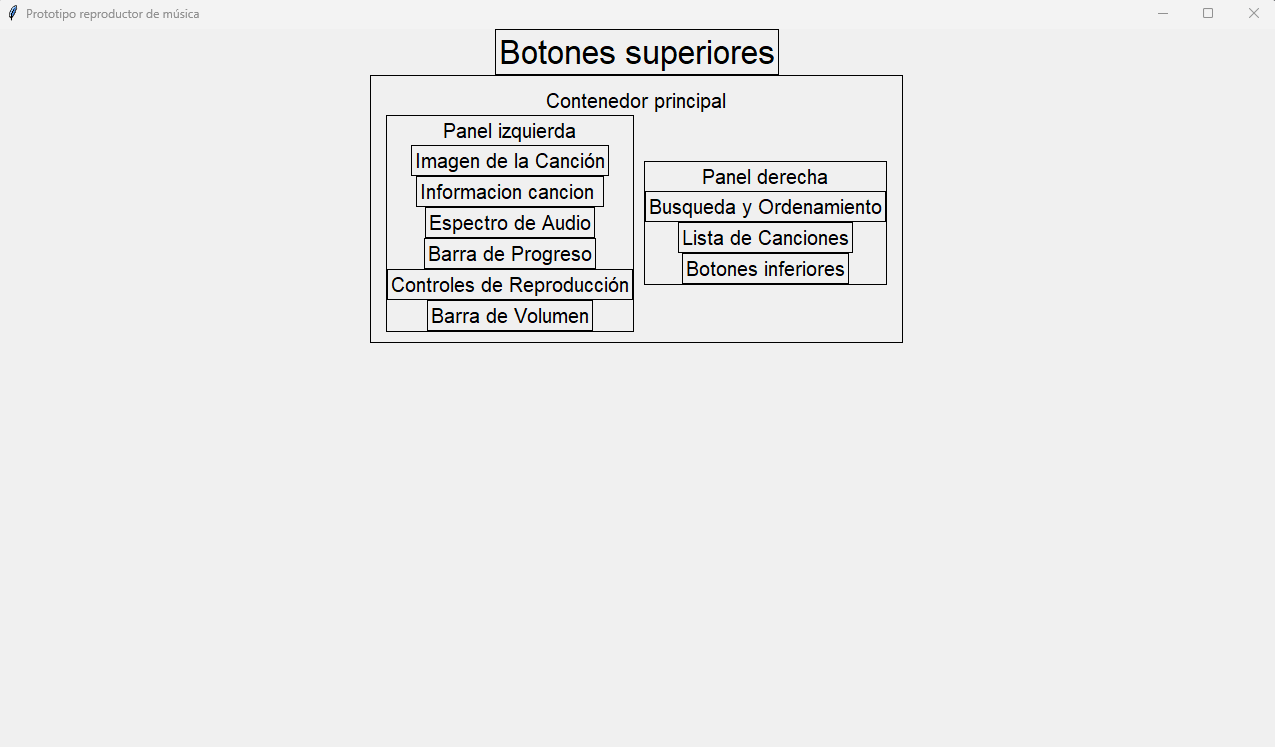
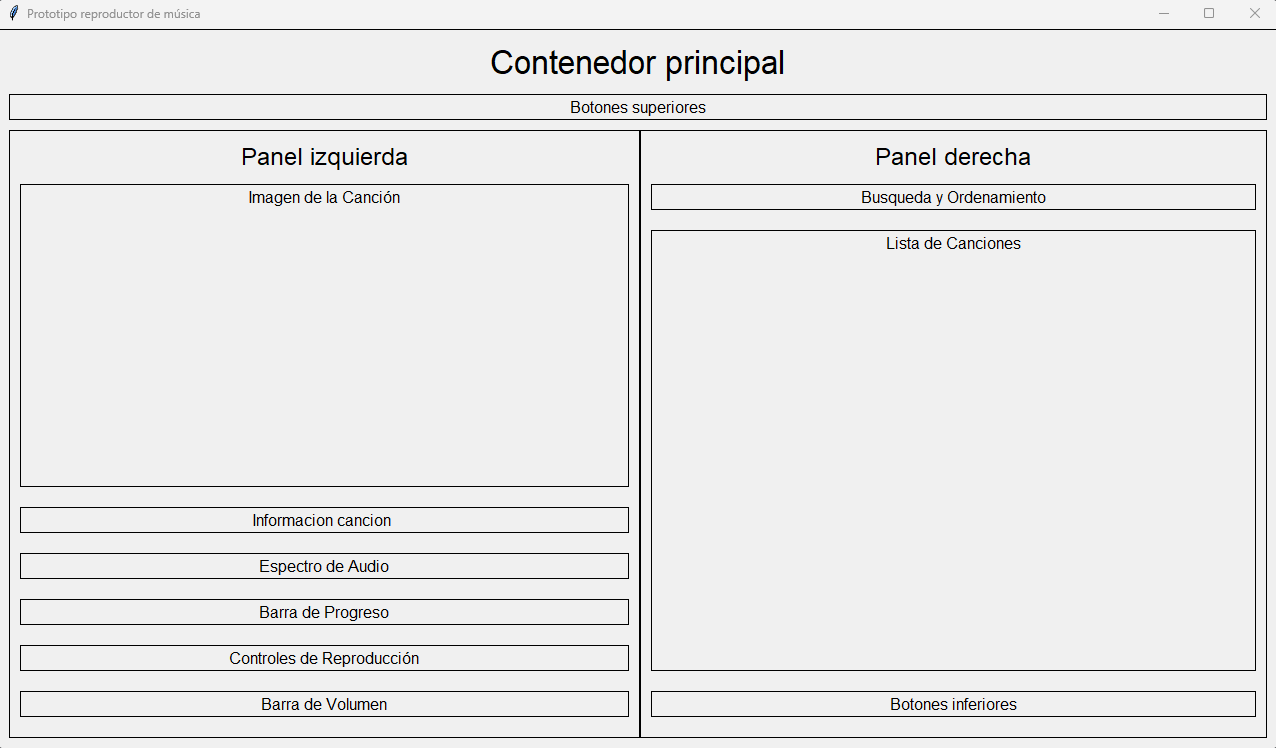
mejoras prototipo

diff --git a/prototipo/prototipo_reproductor.py b/prototipo/prototipo_reproductor.py
@@ -29,29 +29,29 @@ ventana_principal.title("Prototipo reproductor de música")
 # ===============================================================================================
 
 
-# ===================================== Contenedor superior =====================================
-
-# contenedor superior
-contenedor_superior = tk.Frame(ventana_principal)
-contenedor_superior.configure(relief="solid", borderwidth=1)
-contenedor_superior.pack()
-
-# etiqueta del reproductor
-etiqueta = tk.Label(contenedor_superior, text="Botones superiores", font=(letra, 25))
-etiqueta.pack()
-
-# ===============================================================================================
-
-
 # ==================================== Contenedor principal =====================================
 
 # contenedor principal
 conenedor_principal = tk.Frame(ventana_principal)
 conenedor_principal.configure(padx=10, pady=10, relief="solid", borderwidth=1)
-conenedor_principal.pack()
+conenedor_principal.pack(fill="both", expand=True)
 
 # etiqueta del contenedor principal
-etiqueta = tk.Label(conenedor_principal, text="Contenedor principal", font=(letra, 15))
+etiqueta = tk.Label(conenedor_principal, text="Contenedor principal", font=(letra, 25))
+etiqueta.pack()
+
+# ===============================================================================================
+
+
+# ===================================== Contenedor superior =====================================
+
+# contenedor superior
+contenedor_superior = tk.Frame(conenedor_principal)
+contenedor_superior.configure(padx=10, relief="solid", borderwidth=1)
+contenedor_superior.pack(pady=10, fill="both")
+
+# etiqueta del reproductor
+etiqueta = tk.Label(contenedor_superior, text="Botones superiores", font=(letra, 12))
 etiqueta.pack()
 
 # ===============================================================================================
@@ -61,22 +61,22 @@ etiqueta.pack()
 
 # contenedor izquierda
 contenedor_izquierda = tk.Frame(conenedor_principal)
-contenedor_izquierda.configure(relief="solid", borderwidth=1)
-contenedor_izquierda.pack(side=tk.LEFT, padx=5)
+contenedor_izquierda.configure(padx=10, pady=10, relief="solid", borderwidth=1)
+contenedor_izquierda.pack(side=tk.LEFT, fill="both", expand=True)
 
 # etiqueta izquierda
-etiqueta_izquierda = tk.Label(contenedor_izquierda, text="Panel izquierda", font=(letra, 15))
+etiqueta_izquierda = tk.Label(contenedor_izquierda, text="Panel izquierda", font=(letra, 18))
 etiqueta_izquierda.pack()
 
 # ------------------------------- Seccion de imagen de la canción -------------------------------
 
 # contenedor de imagen de la canción
 contenedor_imagen = tk.Frame(contenedor_izquierda)
-contenedor_imagen.configure(relief="solid", borderwidth=1)
-contenedor_imagen.pack()
+contenedor_imagen.configure(padx=10, relief="solid", borderwidth=1)
+contenedor_imagen.pack(pady=10, fill="both", expand=True)
 
 # etiqueta de imagen de la canción
-etiqueta_imagen = tk.Label(contenedor_imagen, text="Imagen de la Canción", font=(letra, 15))
+etiqueta_imagen = tk.Label(contenedor_imagen, text="Imagen de la Canción", font=(letra, 12))
 etiqueta_imagen.pack()
 
 # -----------------------------------------------------------------------------------------------
@@ -85,12 +85,12 @@ etiqueta_imagen.pack()
 # ----------------------------- Seccion de información de la canción ----------------------------
 # contenedor de información de la canción
 contenedor_informacion = tk.Frame(contenedor_izquierda)
-contenedor_informacion.configure(relief="solid", borderwidth=1)
-contenedor_informacion.pack()
+contenedor_informacion.configure(padx=10, relief="solid", borderwidth=1)
+contenedor_informacion.pack(pady=10, fill="both")
 
 # etiqueta de información de la canción
 etiqueta_informacion = tk.Label(
-    contenedor_informacion, text="Informacion cancion ", font=(letra, 15)
+    contenedor_informacion, text="Informacion cancion ", font=(letra, 12)
 )
 etiqueta_informacion.pack()
 
@@ -100,11 +100,11 @@ etiqueta_informacion.pack()
 # ------------------------------- Seccion de espectro de audio ----------------------------------
 # contenedor de espectro de audio
 contenedor_espectro = tk.Frame(contenedor_izquierda)
-contenedor_espectro.configure(relief="solid", borderwidth=1)
-contenedor_espectro.pack()
+contenedor_espectro.configure(padx=10, relief="solid", borderwidth=1)
+contenedor_espectro.pack(pady=10, fill="both")
 
 # etiqueta de espectro de audio
-etiqueta_espectro = tk.Label(contenedor_espectro, text="Espectro de Audio", font=(letra, 15))
+etiqueta_espectro = tk.Label(contenedor_espectro, text="Espectro de Audio", font=(letra, 12))
 etiqueta_espectro.pack()
 
 # -----------------------------------------------------------------------------------------------
@@ -114,11 +114,11 @@ etiqueta_espectro.pack()
 
 # contenedor de barra de progreso
 contenedor_progreso = tk.Frame(contenedor_izquierda)
-contenedor_progreso.configure(relief="solid", borderwidth=1)
-contenedor_progreso.pack()
+contenedor_progreso.configure(padx=10, relief="solid", borderwidth=1)
+contenedor_progreso.pack(pady=10, fill="both")
 
 # etiqueta de barra de progreso
-etiqueta_progreso = tk.Label(contenedor_progreso, text="Barra de Progreso", font=(letra, 15))
+etiqueta_progreso = tk.Label(contenedor_progreso, text="Barra de Progreso", font=(letra, 12))
 etiqueta_progreso.pack()
 
 # -----------------------------------------------------------------------------------------------
@@ -128,12 +128,12 @@ etiqueta_progreso.pack()
 
 # contenedor de controles de reproducción
 contenedor_controles = tk.Frame(contenedor_izquierda)
-contenedor_controles.configure(relief="solid", borderwidth=1)
-contenedor_controles.pack()
+contenedor_controles.configure(padx=10, relief="solid", borderwidth=1)
+contenedor_controles.pack(pady=10, fill="both")
 
 # etiqueta de controles de reproducción
 etiqueta_controles = tk.Label(
-    contenedor_controles, text="Controles de Reproducción", font=(letra, 15)
+    contenedor_controles, text="Controles de Reproducción", font=(letra, 12)
 )
 etiqueta_controles.pack()
 
@@ -144,11 +144,11 @@ etiqueta_controles.pack()
 
 # contenedor de barra de volumen
 contenedor_volumen = tk.Frame(contenedor_izquierda)
-contenedor_volumen.configure(relief="solid", borderwidth=1)
-contenedor_volumen.pack()
+contenedor_volumen.configure(padx=10, relief="solid", borderwidth=1)
+contenedor_volumen.pack(pady=10, fill="both")
 
 # etiqueta de barra de volumen
-etiqueta_volumen = tk.Label(contenedor_volumen, text="Barra de Volumen", font=(letra, 15))
+etiqueta_volumen = tk.Label(contenedor_volumen, text="Barra de Volumen", font=(letra, 12))
 etiqueta_volumen.pack()
 
 # -----------------------------------------------------------------------------------------------
@@ -159,25 +159,25 @@ etiqueta_volumen.pack()
 
 # ======================================== Panel derecha ========================================
 
-# contenedor de panel lateral
+# contenedor de panel derecha
 contenedor_derecha = tk.Frame(conenedor_principal)
-contenedor_derecha.configure(relief="solid", borderwidth=1)
-contenedor_derecha.pack(side=tk.LEFT, padx=5)
+contenedor_derecha.configure(padx=10, pady=10, relief="solid", borderwidth=1)
+contenedor_derecha.pack(side=tk.LEFT, fill="both", expand=True)
 
-# etiqueta de panel lateral
-etiqueta_derecha = tk.Label(contenedor_derecha, text="Panel derecha", font=(letra, 15))
+# etiqueta de panel derecha
+etiqueta_derecha = tk.Label(contenedor_derecha, text="Panel derecha", font=(letra, 18))
 etiqueta_derecha.pack()
 
 # ------------------------------ Seccion de busqueda y ordenamiento -----------------------------
 
 # contenedor de busqueda y ordenamiento
 contenedor_busqueda_ordenamiento = tk.Frame(contenedor_derecha)
-contenedor_busqueda_ordenamiento.configure(relief="solid", borderwidth=1)
-contenedor_busqueda_ordenamiento.pack()
+contenedor_busqueda_ordenamiento.configure(padx=10, relief="solid", borderwidth=1)
+contenedor_busqueda_ordenamiento.pack(pady=10, fill="both")
 
 # etiqueta de busqueda y ordenamiento
 etiqueta_busqueda_ordenamiento = tk.Label(
-    contenedor_busqueda_ordenamiento, text="Busqueda y Ordenamiento", font=(letra, 15)
+    contenedor_busqueda_ordenamiento, text="Busqueda y Ordenamiento", font=(letra, 12)
 )
 etiqueta_busqueda_ordenamiento.pack()
 
@@ -187,12 +187,12 @@ etiqueta_busqueda_ordenamiento.pack()
 # ------------------------------- Seccion de lista de canciones --------------------------------
 # contenedor de lista de canciones
 contenedor_lista_canciones = tk.Frame(contenedor_derecha)
-contenedor_lista_canciones.configure(relief="solid", borderwidth=1)
-contenedor_lista_canciones.pack()
+contenedor_lista_canciones.configure(padx=10, relief="solid", borderwidth=1)
+contenedor_lista_canciones.pack(pady=10, fill="both", expand=True)
 
 # etiqueta de lista de canciones
 etiqueta_lista_canciones = tk.Label(
-    contenedor_lista_canciones, text="Lista de Canciones", font=(letra, 15)
+    contenedor_lista_canciones, text="Lista de Canciones", font=(letra, 12)
 )
 etiqueta_lista_canciones.pack()
 
@@ -202,11 +202,11 @@ etiqueta_lista_canciones.pack()
 # ------------------------------- Seccion de botones inferiores ---------------------------------
 # contenedor de botones inferiores
 contenedor_inferior = tk.Frame(contenedor_derecha)
-contenedor_inferior.configure(relief="solid", borderwidth=1)
-contenedor_inferior.pack()
+contenedor_inferior.configure(padx=10, relief="solid", borderwidth=1)
+contenedor_inferior.pack(pady=10, fill="both")
 
 # etiqueta de botones inferiores
-etiqueta_inferior = tk.Label(contenedor_inferior, text="Botones inferiores", font=(letra, 15))
+etiqueta_inferior = tk.Label(contenedor_inferior, text="Botones inferiores", font=(letra, 12))
 etiqueta_inferior.pack()
 
 # -----------------------------------------------------------------------------------------------

diff --git a/readme.md b/readme.md
@@ -1,0 +1,5 @@
+# Reproctor de musica mp3 usando Python
+
+## Prototipo
+
+![Captura del reproductor](recursos/imagen/prototipo.png)
